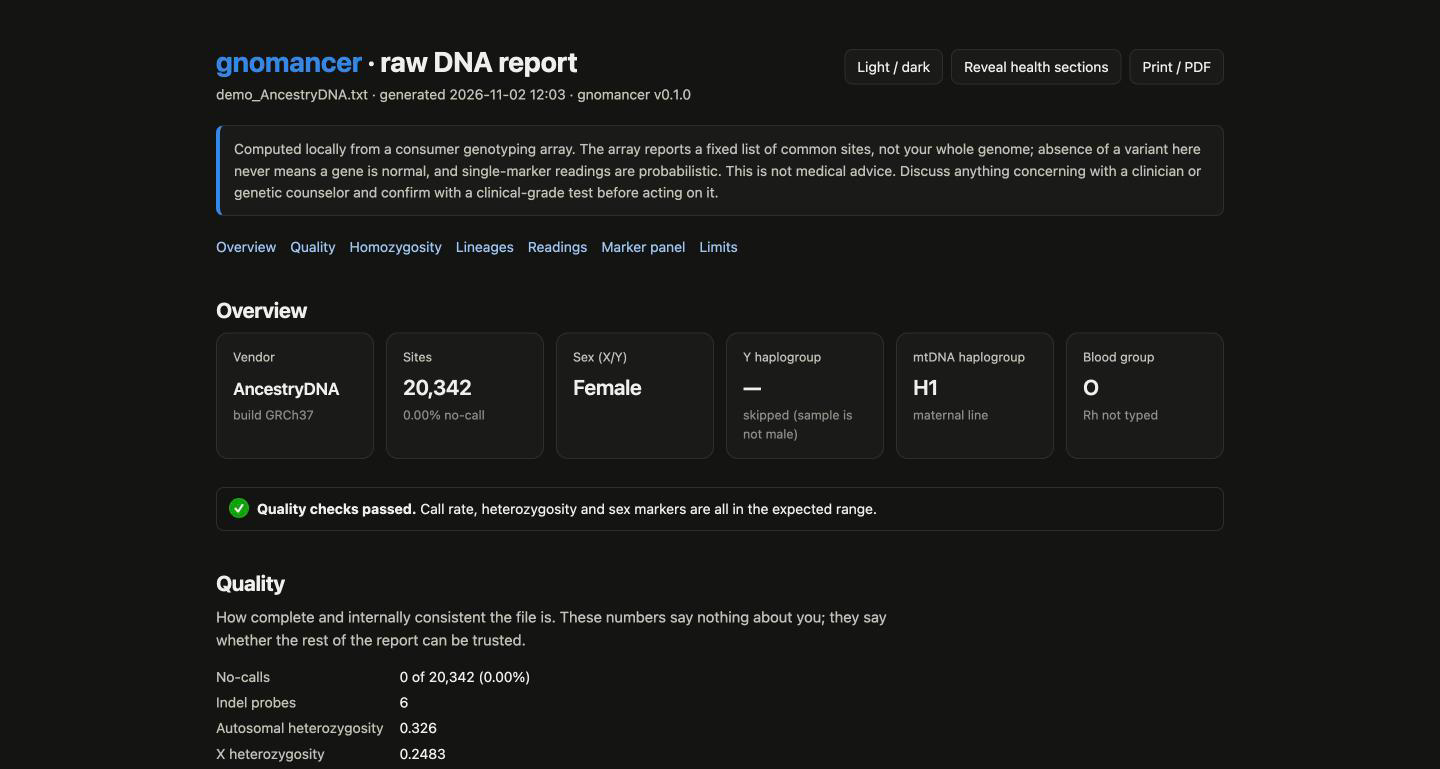
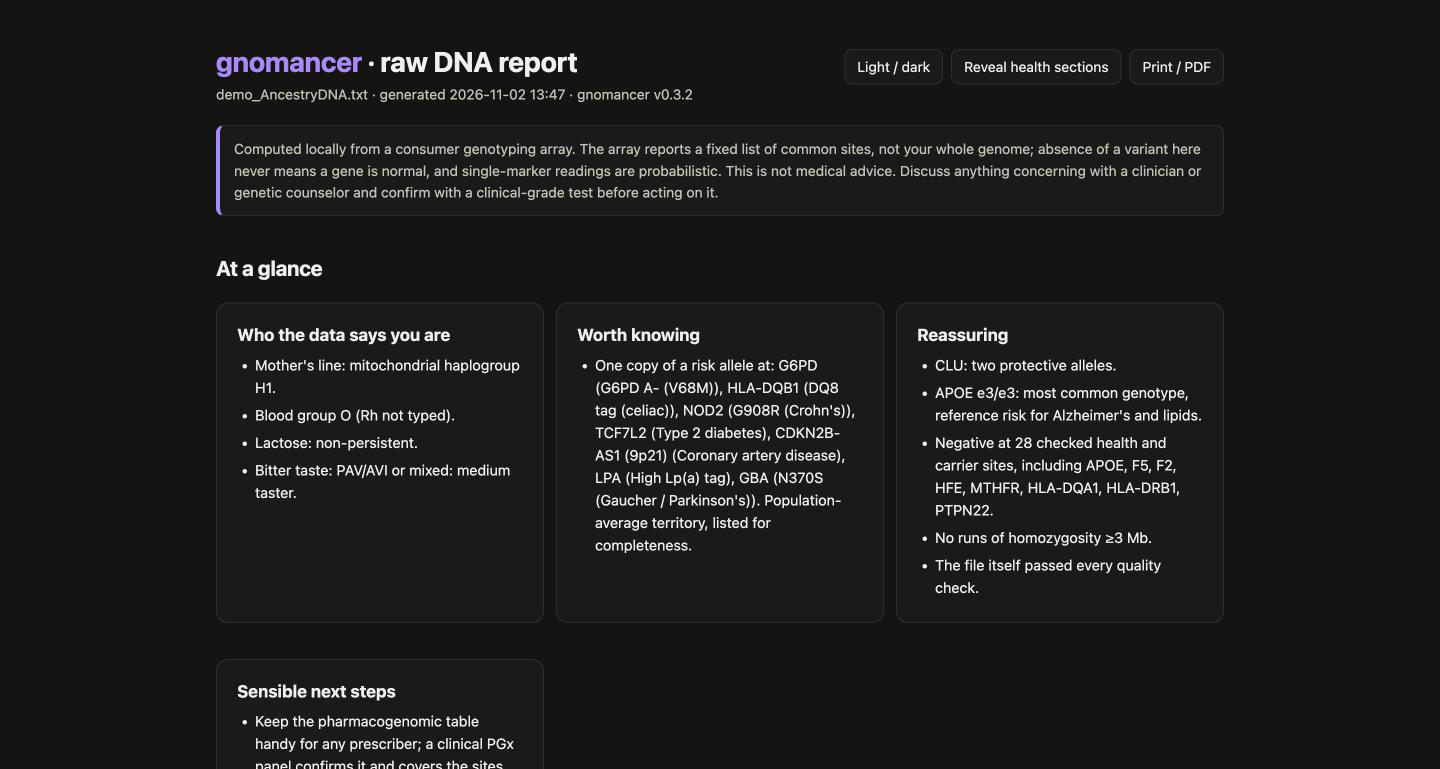
Report accent matches the brand; realistic demo profile; fresh demo screenshot

diff --git a/site/index.html b/site/index.html
@@ -59,7 +59,7 @@ footer{border-top:1px solid var(--line);padding:28px 0 48px;color:var(--ink-3);f
 <pre><span class="c"># macOS / Linux (Windows via WSL): one line to install, one to run</span>
 <span class="p">$</span> curl -fsSL https://gnomancer.com/install.sh | bash      <span class="c"># or: pipx install gnomancer && gnomancer setup</span>
 <span class="p">$</span> gnomancer ~/Downloads/AncestryDNA.zip</pre>
-  <div class="shot"><img src="/assets/demo-report.png" alt="A gnomancer report: overview tiles for vendor, sites, sex, Y haplogroup, mtDNA haplogroup and blood group, with quality checks" width="1440" height="769"></div>
+  <div class="shot"><img src="/assets/demo-report.png" alt="A gnomancer report opening with its at-a-glance digest: who the data says you are, worth knowing, reassuring" width="1440" height="769"></div>
   <p class="caption">The report, generated from a synthetic demo file. Real reports open with an at-a-glance digest and an optional narrative written by your own AI assistant.</p>
 </section>
 

diff --git a/gnomancer/report_html.py b/gnomancer/report_html.py
@@ -26,10 +26,10 @@ SENSITIVE = {"health", "carrier"}
 
 CSS = """
 :root{color-scheme:light;--bg:#fcfcfb;--surface:#ffffff;--line:#e6e4df;--ink:#0b0b0b;--ink-2:#52514e;--ink-3:#8a8781;
---accent:#2a78d6;--accent-soft:#cde2fb;--accent-ink:#184f95;--good:#0ca30c;--warn:#fab219;--serious:#ec835a;--critical:#d03b3b;
+--accent:#7c3aed;--accent-soft:#efe9fd;--accent-ink:#5b21b6;--good:#0ca30c;--warn:#fab219;--serious:#ec835a;--critical:#d03b3b;
 --radius:12px;--mono:ui-monospace,SFMono-Regular,Menlo,Consolas,monospace;--sans:-apple-system,BlinkMacSystemFont,"Segoe UI",Inter,Roboto,Helvetica,Arial,sans-serif}
-@media (prefers-color-scheme:dark){:root:not([data-theme=light]){color-scheme:dark;--bg:#141413;--surface:#1a1a19;--line:#2e2e2c;--ink:#f0efec;--ink-2:#c3c2b7;--ink-3:#8f8e86;--accent:#3987e5;--accent-soft:#0d366b;--accent-ink:#9ec5f4}}
-:root[data-theme=dark]{color-scheme:dark;--bg:#141413;--surface:#1a1a19;--line:#2e2e2c;--ink:#f0efec;--ink-2:#c3c2b7;--ink-3:#8f8e86;--accent:#3987e5;--accent-soft:#0d366b;--accent-ink:#9ec5f4}
+@media (prefers-color-scheme:dark){:root:not([data-theme=light]){color-scheme:dark;--bg:#141413;--surface:#1a1a19;--line:#2e2e2c;--ink:#f0efec;--ink-2:#c3c2b7;--ink-3:#8f8e86;--accent:#a78bfa;--accent-soft:#2e1a5e;--accent-ink:#c4b5fd}}
+:root[data-theme=dark]{color-scheme:dark;--bg:#141413;--surface:#1a1a19;--line:#2e2e2c;--ink:#f0efec;--ink-2:#c3c2b7;--ink-3:#8f8e86;--accent:#a78bfa;--accent-soft:#2e1a5e;--accent-ink:#c4b5fd}
 *{box-sizing:border-box}html{-webkit-text-size-adjust:100%}
 body{margin:0;background:var(--bg);color:var(--ink);font:15px/1.55 var(--sans)}
 .wrap{max-width:1040px;margin:0 auto;padding:0 16px 64px}
@@ -60,6 +60,7 @@ tr:first-child td{border-top:0}
 td.gt,td.num{font-family:var(--mono);font-variant-numeric:tabular-nums;white-space:nowrap}
 .badge{display:inline-block;min-width:34px;text-align:center;padding:1px 8px;border-radius:999px;font-size:12.5px;font-family:var(--mono);border:1px solid var(--line);color:var(--ink-2)}
 .badge.n1{border-color:var(--accent);color:var(--accent-ink)}.badge.n2{background:var(--accent);border-color:var(--accent);color:#fff}
+.bar{fill:var(--accent)}
 .badge.na{color:var(--ink-3);border-style:dashed}
 .readings{display:grid;grid-template-columns:repeat(auto-fit,minmax(260px,1fr));gap:12px}
 .readings .card .value{font-size:18px;font-weight:600;margin:2px 0 4px}.readings .card .note{font-size:13.5px;color:var(--ink-2)}

diff --git a/gnomancer/summary.py b/gnomancer/summary.py
@@ -76,14 +76,17 @@ def at_a_glance(loaded, qc, roh, roh_text, combos, y, mt, ancestry, panel: pd.Da
         for _, r in p[p.category.isin(["health", "carrier"])].iterrows():
             n = str(r.effect_count).split("/")[0]
             if n == "2" and r.category == "health":
-                notable.append(f"{r.gene} {r.label}: {r.interpretation}.")
+                if "protective" in str(r.interpretation).lower():
+                    reassuring.append(f"{r.gene}: {r.interpretation}.")
+                else:
+                    notable.append(f"{r.gene} {r.label}: {r.interpretation}.")
             elif n == "1" and r.category == "carrier":
                 notable.append(f"{r.gene} {r.label}: carrier ({r.interpretation}).")
             elif n == "2" and r.category == "carrier":
                 notable.append(f"{r.gene} {r.label}: two copies ({r.interpretation}).")
         hets = p[(p.category == "health") & (p.effect_count.astype(str).str.startswith("1")) & ~p.interpretation.str.contains("benign", case=False)]
         if not hets.empty:
-            notable.append("One copy of a common risk allele at: " + ", ".join(f"{r.gene} ({r.label})" for _, r in hets.iterrows()) + ". Population-average territory, listed for completeness.")
+            notable.append("One copy of a risk allele at: " + ", ".join(f"{r.gene} ({r.label})" for _, r in hets.iterrows()) + ". Population-average territory, listed for completeness.")
     if "APOE" in combo:
         v = combo["APOE"][0].split(" (")[0]
         (reassuring if v == "e3/e3" else notable).append(f"APOE {v}: {combo['APOE'][1]}.")

diff --git a/examples/make_demo.py b/examples/make_demo.py
@@ -37,8 +37,12 @@ def main(outdir: str, seed: int = 7, n_filler: int = 20000):
         if m["gene"].startswith("G6PD"):
             ch = "X"
         pos = rng.randint(1_000_000, int(CHR_LEN[ch]) - 1_000_000)
-        p_eff = 0.08 if m["category"] in ("carrier",) else 0.35
-        a = [m["effect"] if rng.random() < p_eff else m["ref"] for _ in range(2)]
+        # Realistic-looking profile: carrier sites almost always reference, health risk alleles at modest frequency.
+        p_eff = {"carrier": 0.01, "health": 0.22}.get(m["category"], 0.35)
+        if m["rsid"] in ("rs429358", "rs7412"):  # APOE e3/e3 for the demo
+            a = [m["ref"], m["ref"]]
+        else:
+            a = [m["effect"] if rng.random() < p_eff else m["ref"] for _ in range(2)]
         rows.append((m["rsid"], ch, pos, a[0], a[1]))
     for rsid, ch, pos in ANCHORS:
         rows.append((rsid, ch, pos, "A", "A"))
